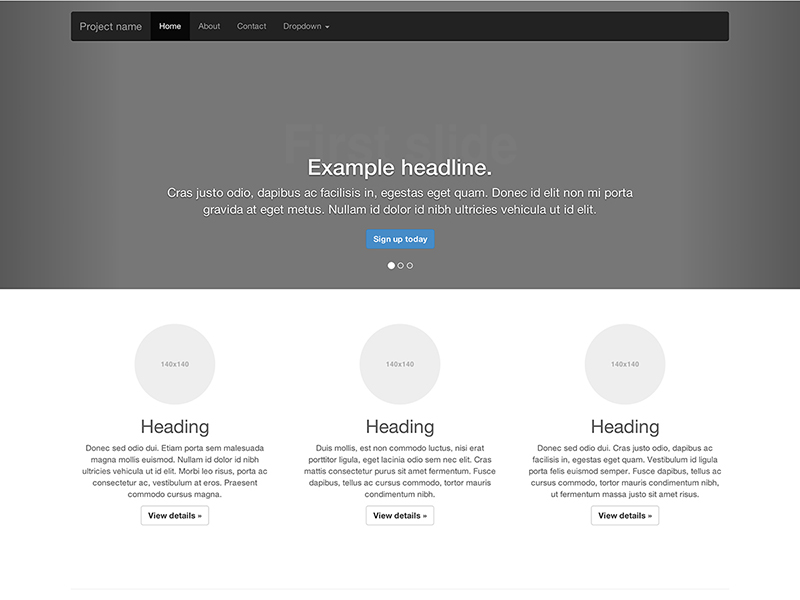
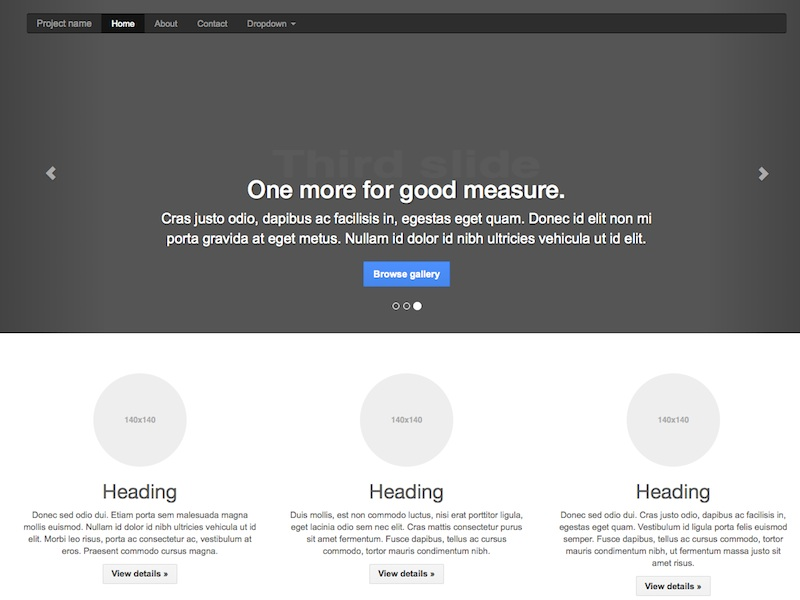
update the carousel example to support todc-bootstrap
#117

diff --git a/examples/carousel/index.html b/examples/carousel/index.html
@@ -8,10 +8,13 @@
     <meta name="author" content="">
     <link rel="shortcut icon" href="../../docs-assets/ico/favicon.png">
 
-    <title>Carousel Template for Bootstrap</title>
+    <title>Carousel Template for TODC Bootstrap</title>
 
     <!-- Bootstrap core CSS -->
     <link href="../../dist/css/bootstrap.css" rel="stylesheet">
+
+    <!-- TODC Bootstrap core CSS -->
+    <link href="../../dist/css/todc-bootstrap.css" rel="stylesheet">
 
     <!-- Just for debugging purposes. Don't actually copy this line! -->
     <!--[if lt IE 9]><script src="../../docs-assets/js/ie8-responsive-file-warning.js"></script><![endif]-->
@@ -31,7 +34,7 @@
     <div class="navbar-wrapper">
       <div class="container">
 
-        <div class="navbar navbar-inverse navbar-static-top" role="navigation">
+        <div class="navbar navbar-default navbar-static-top" role="navigation">
           <div class="container">
             <div class="navbar-header">
               <button type="button" class="navbar-toggle" data-toggle="collapse" data-target=".navbar-collapse">
